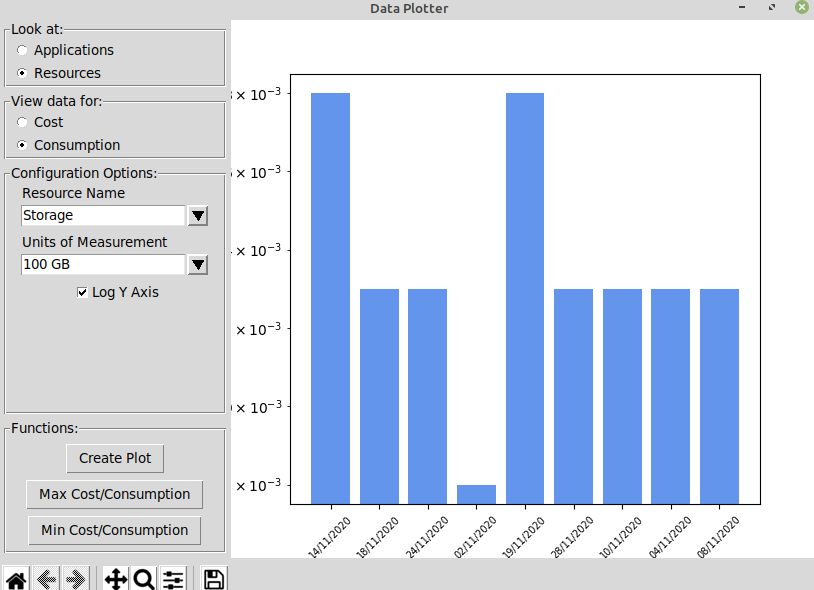
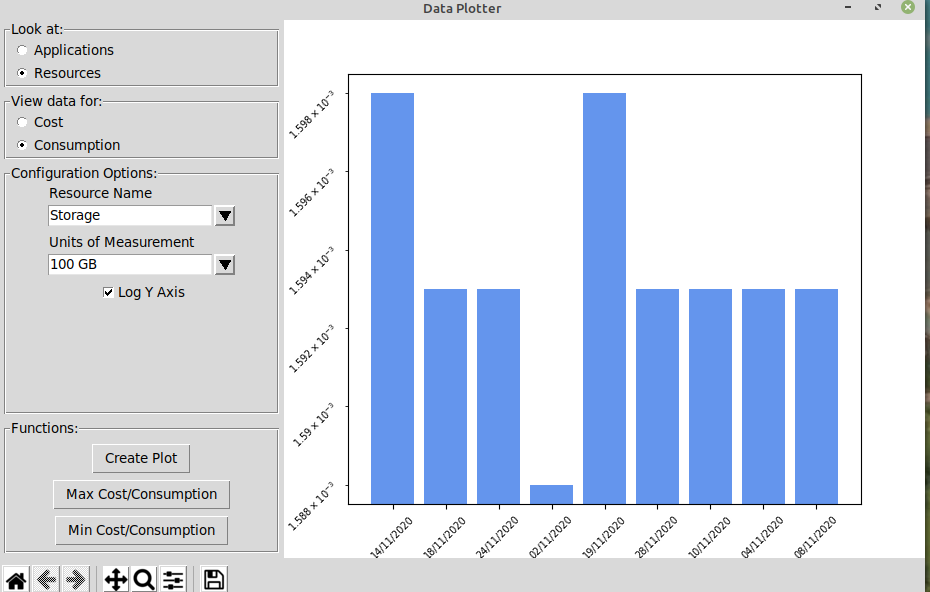
Formatted yaxis better, when logged and updated repo images

Changed region(s): [[0.0, 0.0, 1.0, 1.0], [0.0921, 0.4881, 0.215, 0.5186], [0.4607, 0.0, 0.5528, 0.0305]]

diff --git a/graph_canvas.py b/graph_canvas.py
@@ -6,6 +6,7 @@ import pickle as pk
 from matplotlib.figure import Figure
 from matplotlib.backends.backend_tkagg import (FigureCanvasTkAgg, 
 NavigationToolbar2Tk)
+import matplotlib.ticker as mticker
 
 # custom imports
 
@@ -45,7 +46,7 @@ class GraphCanvas(tk.Frame):
         self.figure.delaxes(self.axes)
         self.axes = self.figure.add_axes([0.1,0.1,0.8,0.8])
         self.axes.tick_params(axis="x", labelrotation=45, labelsize=7)
-        self.axes.tick_params(axis="y", labelsize=7)
+        self.axes.tick_params(axis="y", which="both", labelrotation=45, labelsize=7)
 
         # for dates and bars are to be labelled with 'ServiceName'
         xaxis_vals = []
@@ -69,7 +70,8 @@ class GraphCanvas(tk.Frame):
 
         if log_yaxis:
             self.axes.set_yscale("log")
-        
+            #self.axes.yaxis.set_minor_formatter(mticker.FuncFormatter(lambda x,_: f"$10^{{{int(x)}}}$"))
+
         self.current_plot = self.axes.bar(xaxis_vals, yaxis_vals, color="cornflowerblue")
 
         self.canvas.draw()
